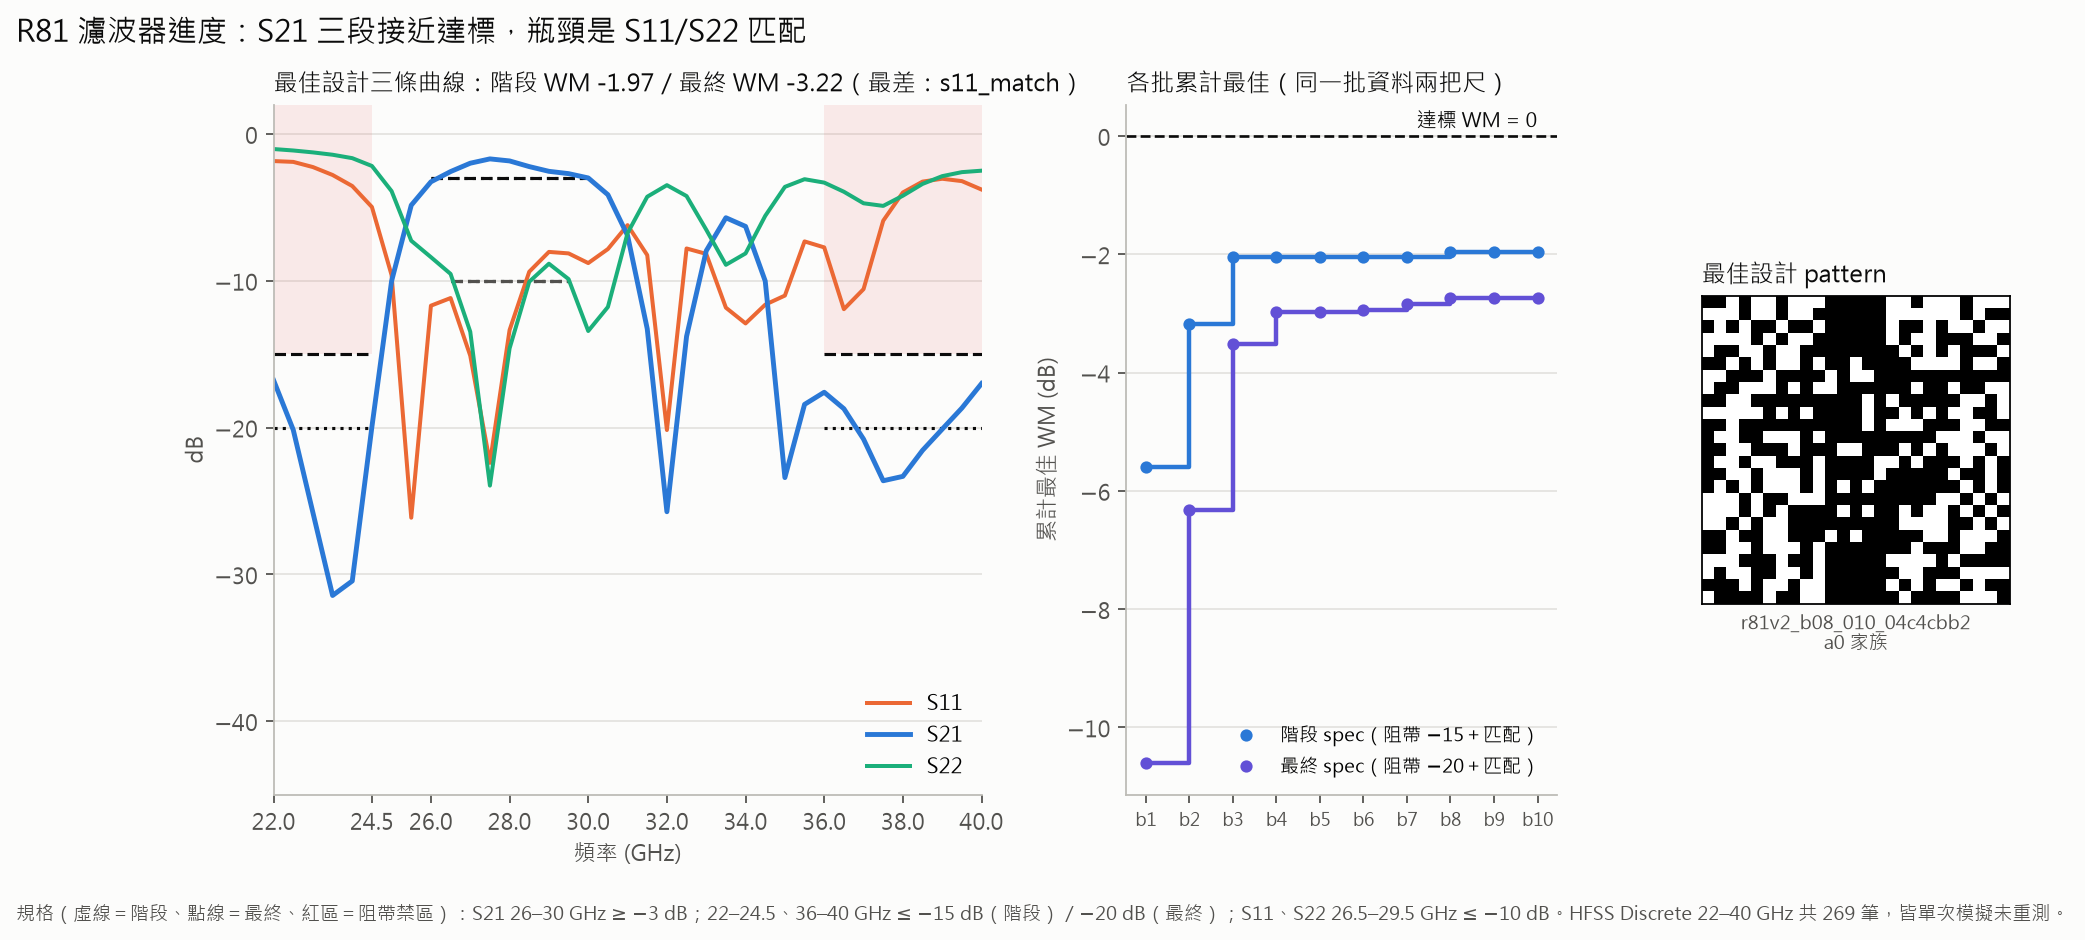
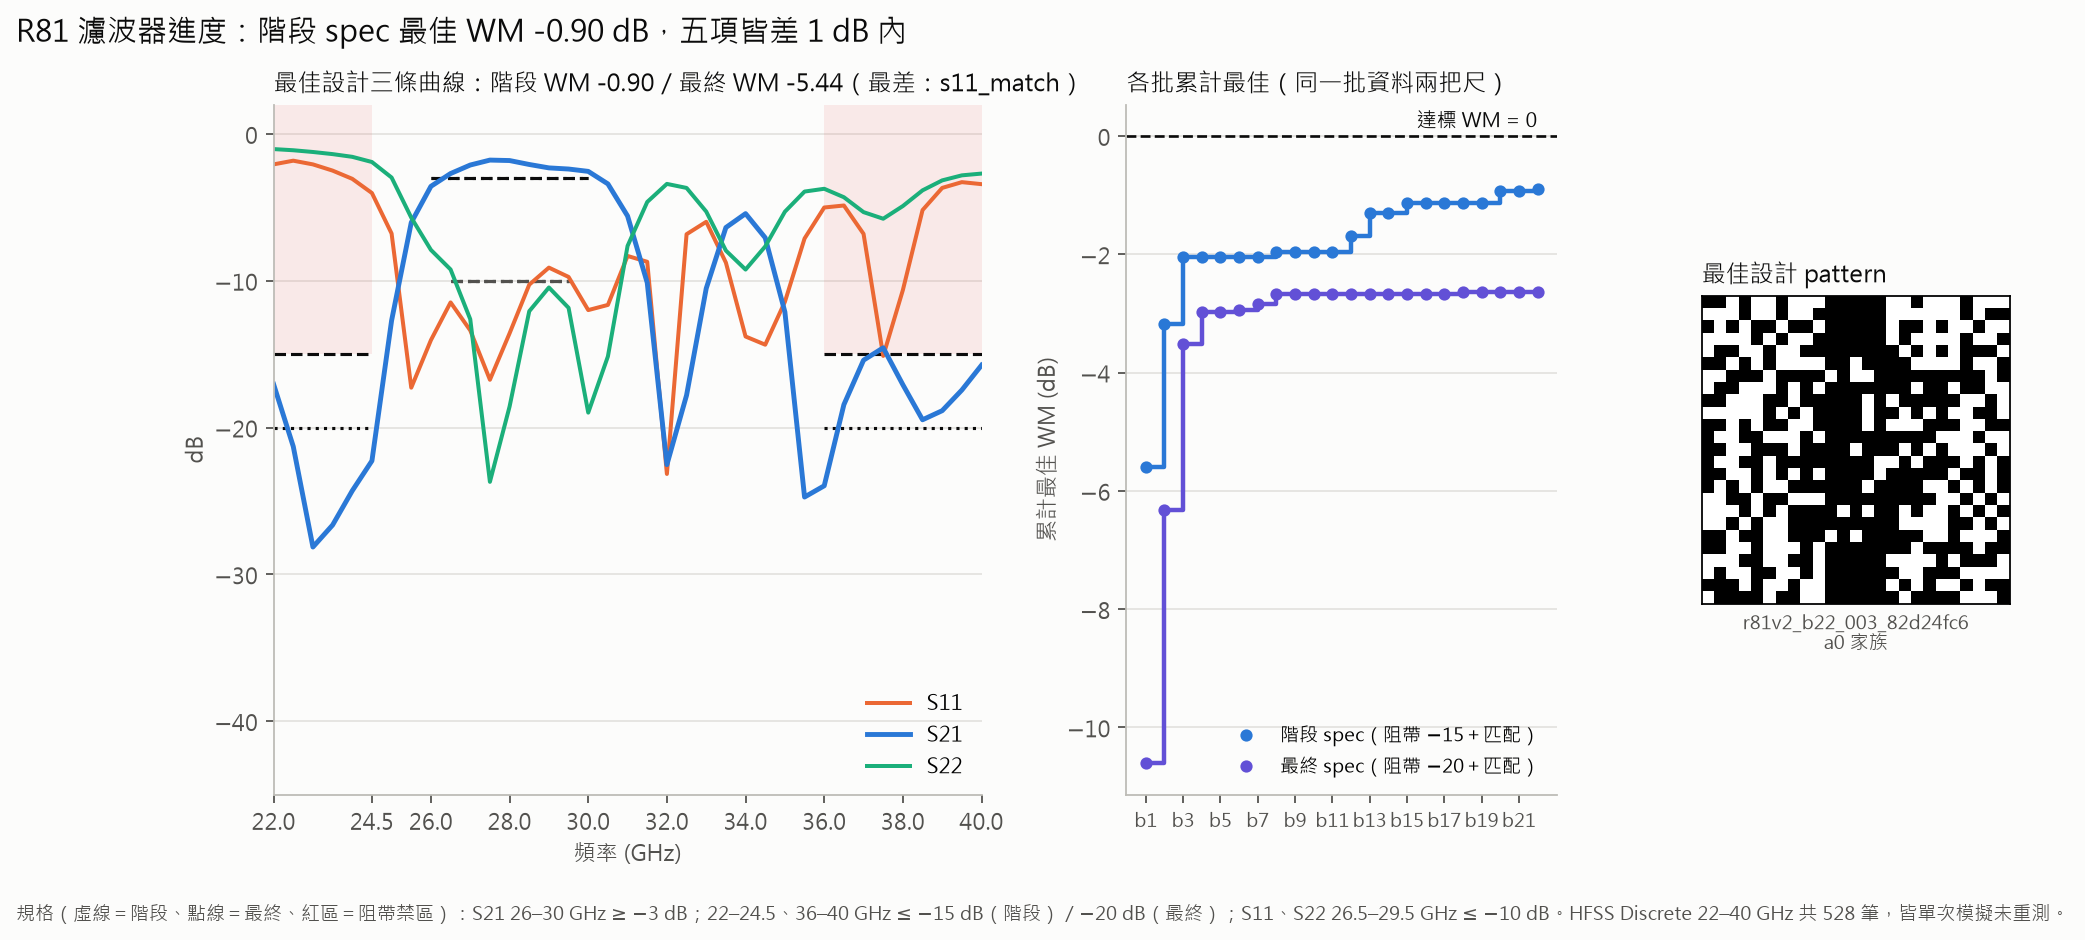
fig(r81): 進度圖更新到 b22（階段 spec 最佳 -0.90），批號軸稀疏標示

diff --git a/script/figs/r81_progress.py b/script/figs/r81_progress.py
@@ -77,7 +77,8 @@ def main(argv=None):
         bx.plot(xs, run, "o", color=color, ms=4.5, label=name)
     bx.axhline(0, color=INK, lw=1.2, ls="--")
     bx.text(xs[-1], 0.15, "達標 WM = 0", ha="right", fontsize=9, color=INK)
-    bx.set_xticks(xs, [f"b{b}" for b in batches], fontsize=8)
+    step = max(1, len(batches) // 8)                    # 批數多時每隔幾批標一次，避免擠在一起
+    bx.set_xticks(xs[::step], [f"b{b}" for b in batches][::step], fontsize=8.5)
     bx.legend(loc="lower right", frameon=False, fontsize=8.5)
     bx.set_ylabel("累計最佳 WM (dB)", color=MUTED)
     bx.set_title("各批累計最佳（同一批資料兩把尺）", loc="left", fontsize=11, color=INK)
@@ -96,7 +97,7 @@ def main(argv=None):
         for sp in ("left", "bottom"):
             a.spines[sp].set_color("#bdbcb6")
         a.tick_params(colors=MUTED)
-    fig.suptitle("R81 濾波器進度：S21 三段接近達標，瓶頸是 S11/S22 匹配", x=0.01, ha="left", fontsize=13.5, color=INK)
+    fig.suptitle(f"R81 濾波器進度：階段 spec 最佳 WM {best['wm']:+.2f} dB，五項皆差 1 dB 內", x=0.01, ha="left", fontsize=13.5, color=INK)
     fig.text(0.01, -0.03, "規格（虛線＝階段、點線＝最終、紅區＝阻帶禁區）：S21 26–30 GHz ≥ −3 dB；22–24.5、36–40 GHz ≤ −15 dB（階段）／−20 dB（最終）；"
              f"S11、S22 26.5–29.5 GHz ≤ −10 dB。HFSS Discrete 22–40 GHz 共 {len(rows)} 筆，皆單次模擬未重測。",
              fontsize=8.5, color=MUTED)
